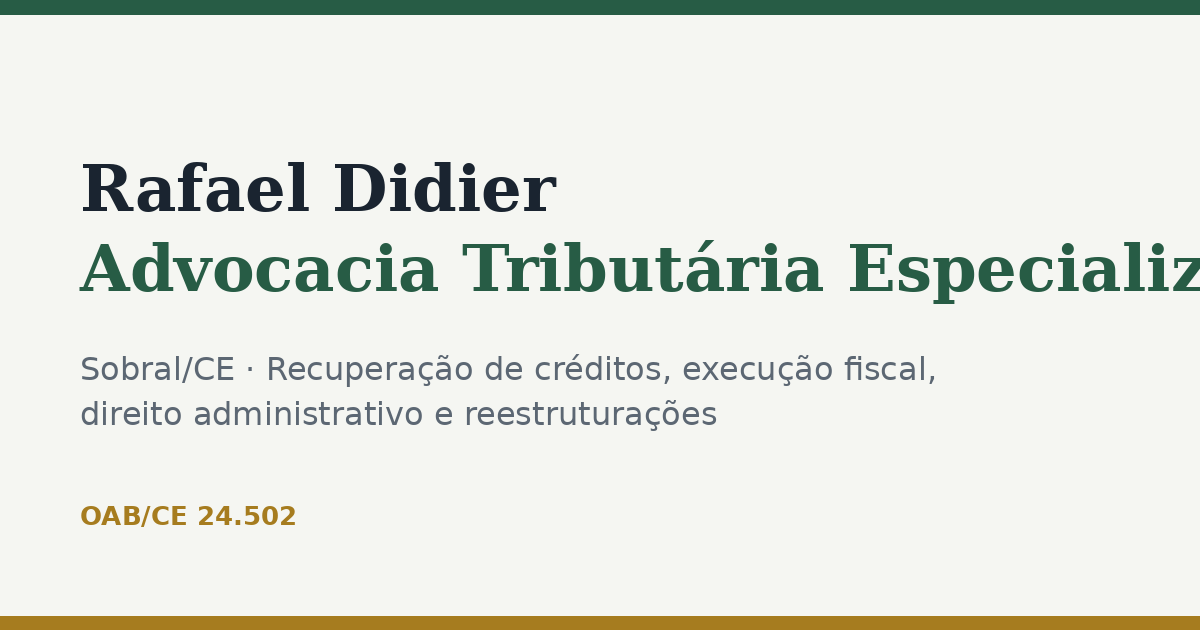
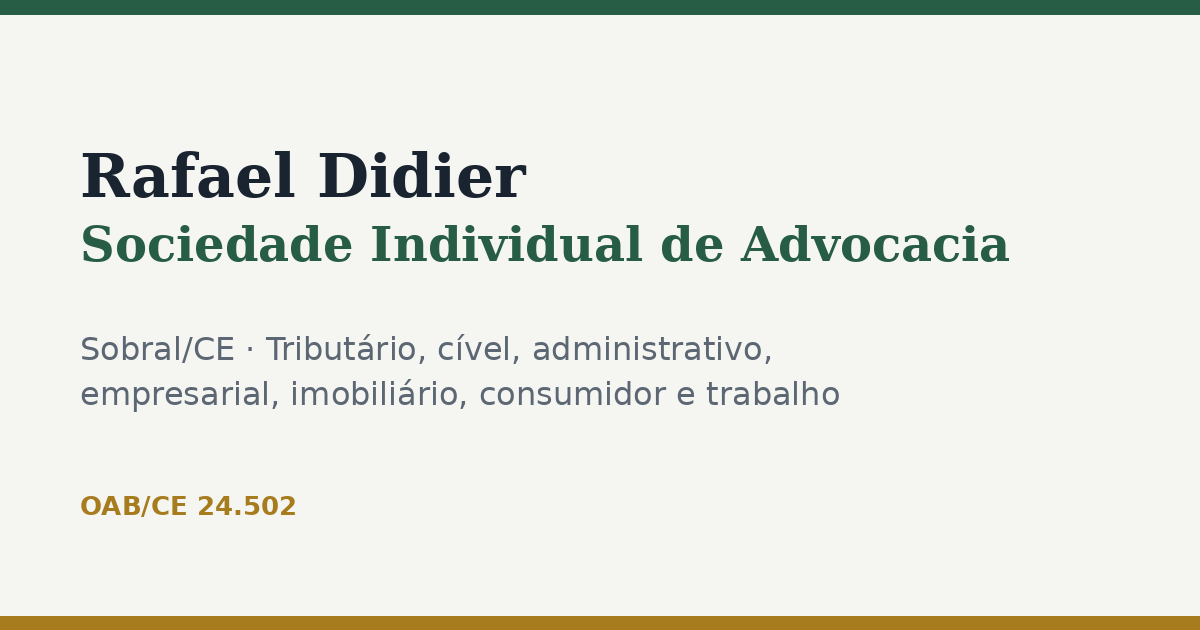
Razão social padronizada, prazos por tribunal, prazo processual publicado para a rotina de publicações
Claude-Session: https://claude.ai/code/session_01EBBbEXdwYvt97TsSuZSn1r

Changed region(s): [[0.0617, 0.2413, 1.0, 0.4825], [0.0617, 0.5127, 0.7708, 0.6937], [0.0617, 0.7841, 0.2467, 0.8444]]

diff --git a/equipe/atendimento.html b/equipe/atendimento.html
@@ -197,7 +197,7 @@ footer{margin-top:24px;font-size:12.5px;color:var(--muted);border-top:1px solid 
 <div class="wrap">
   <header class="top">
     <div>
-      <div class="eyebrow">Rafael Didier Advocacia Tributária · Sobral/CE · versão 2</div>
+      <div class="eyebrow">Rafael Didier Sociedade Individual de Advocacia · Sobral/CE · versão 2</div>
       <h1>Atendimento pelo WhatsApp</h1>
     </div>
     <p class="note">Protótipo navegável. Clientes, documentos e mensagens são fictícios e nada aqui está ligado ao WhatsApp. Os dados ficam só neste navegador.</p>
@@ -412,12 +412,13 @@ footer{margin-top:24px;font-size:12.5px;color:var(--muted);border-top:1px solid 
 
   <section id="v-prazos" hidden>
     <h2 class="sec">Prazos processuais</h2>
-    <p class="sub">Contagem em dias úteis (CPC, art. 219), com a suspensão de 20/12 a 20/1 (art. 220) e os feriados nacionais, do Ceará e de Sobral. Este cálculo não substitui a conferência no calendário do tribunal: informe abaixo os feriados forenses e os dias de indisponibilidade do sistema (art. 224, § 1º).</p>
+    <p class="sub">Contagem em dias úteis (CPC, art. 219), com a suspensão de 20/12 a 20/1 (art. 220) e os feriados nacionais, do Ceará e de Sobral. Este cálculo não substitui a conferência no calendário do tribunal: os dias sem expediente do TJCE e da Justiça Federal já entram; informe abaixo os feriados extras do ano, os municipais da comarca e os dias de indisponibilidade do sistema (art. 224, § 1º).</p>
     <div class="panel" style="display:grid;gap:12px;max-width:760px">
       <div class="grid2">
         <div class="fld"><label for="pp-tipo">A data informada é</label><select id="pp-tipo"><option value="disponibilizacao">Disponibilização no DJe/DJEN</option><option value="intimacao">Intimação ou ciência (portal, oficial, carga)</option></select></div>
         <div class="fld"><label for="pp-data">Data</label><input id="pp-data" type="date"></div>
         <div class="fld"><label for="pp-dias">Prazo (dias)</label><input id="pp-dias" type="number" min="1" max="365" value="15"></div>
+        <div class="fld"><label for="pp-trib">Justiça</label><select id="pp-trib"><option value="tjce">Estadual do Ceará (TJCE)</option><option value="jf">Federal (JFCE/TRF5)</option><option value="">Outra (informe os feriados abaixo)</option></select></div>
         <div class="fld"><label for="pp-proc">Processo (opcional)</label><input id="pp-proc" placeholder="0000000-00.0000.0.00.0000"></div>
       </div>
       <label style="display:flex;gap:8px;align-items:center;font-size:13.5px"><input type="checkbox" id="pp-dobro"> Prazo em dobro (Fazenda Pública, art. 183; Defensoria, art. 186)</label>
@@ -471,20 +472,27 @@ footer{margin-top:24px;font-size:12.5px;color:var(--muted);border-top:1px solid 
   function pascoa(a) { const b = a % 19, c = Math.floor(a / 100), d = a % 100, e = Math.floor(c / 4), f = c % 4, g = Math.floor((c + 8) / 25), h = Math.floor((c - g + 1) / 3),
       i = (19 * b + c - e - h + 15) % 30, k = Math.floor(d / 4), l = d % 4, m = (32 + 2 * f + 2 * k - i - l) % 7, n = Math.floor((b + 11 * i + 22 * m) / 451),
       mes = Math.floor((i + m - 7 * n + 114) / 31), dd = ((i + m - 7 * n + 114) % 31) + 1; return new Date(a, mes - 1, dd, 12); }
-  function feriados(ano, extras) {
-    const f = [[1, 1], [3, 25], [4, 21], [5, 1], [7, 5], [9, 7], [10, 12], [11, 2], [11, 15], [11, 20], [12, 25]].map(([m, d]) => iso(new Date(ano, m - 1, d, 12)));
-    const p = pascoa(ano); [-48, -47, -2, 60].forEach(n => f.push(iso(soma(p, n))));
+  // dias sem expediente próprios de cada justiça (conferir a portaria anual do tribunal)
+  const TRIBUNAIS = {
+    tjce: { nome: 'Justiça Estadual do Ceará (TJCE)', fonte: 'Portaria TJCE nº 2.924/2025 (calendário de 2026)', fixos: [[3, 19], [10, 28], [12, 8]], pascoa: [-3] },
+    jf: { nome: 'Justiça Federal (JFCE/TRF5)', fonte: 'Lei nº 5.010/1966, art. 62', fixos: [[8, 11], [11, 1], [12, 8]], pascoa: [-4, -3] }
+  };
+  function feriados(ano, extras, tribunal) {
+    const t = TRIBUNAIS[tribunal] || { fixos: [], pascoa: [] };
+    const f = [[1, 1], [3, 25], [4, 21], [5, 1], [7, 5], [9, 7], [10, 12], [11, 2], [11, 15], [11, 20], [12, 25], ...t.fixos].map(([m, d]) => iso(new Date(ano, m - 1, d, 12)));
+    const p = pascoa(ano); [-48, -47, -2, 60, ...t.pascoa].forEach(n => f.push(iso(soma(p, n))));
     return new Set(f.concat((extras || []).filter(x => String(x).startsWith(String(ano)))));
   }
   // art. 220: suspensão de 20/12 a 20/1, inclusive
   const recesso = d => (d.getMonth() === 11 && d.getDate() >= 20) || (d.getMonth() === 0 && d.getDate() <= 20);
-  function util(d, extras) { return d.getDay() !== 0 && d.getDay() !== 6 && !feriados(d.getFullYear(), extras).has(iso(d)) && !recesso(d); }
-  const proximoUtil = (d, extras) => { let x = d; while (!util(x, extras)) x = soma(x, 1); return x; };
+  function util(d, extras, tribunal) { return d.getDay() !== 0 && d.getDay() !== 6 && !feriados(d.getFullYear(), extras, tribunal).has(iso(d)) && !recesso(d); }
+  let TRIB = '';
+  const proximoUtil = (d, extras) => { let x = d; while (!util(x, extras, TRIB)) x = soma(x, 1); return x; };
   /* entrada: { disponibilizacao | intimacao (AAAA-MM-DD), dias, dobro (art. 183/186), feriadosExtras: ['AAAA-MM-DD'] }
    * - disponibilizacao no DJe/DJEN: publicação = 1º dia útil seguinte (art. 224, § 2º); início = 1º dia útil após a publicação (§ 3º)
    * - intimacao (data da ciência): início = 1º dia útil seguinte (art. 224, caput: exclui o dia do começo) */
   function calcular(o) {
-    const ex = o.feriadosExtras || [], n = (+o.dias || 0) * (o.dobro ? 2 : 1);
+    const ex = o.feriadosExtras || [], n = (+o.dias || 0) * (o.dobro ? 2 : 1); TRIB = o.tribunal || '';
     if (!(n > 0)) throw new Error('Informe o número de dias do prazo.');
     let publicacao = null, inicio;
     if (o.disponibilizacao) { publicacao = proximoUtil(soma(dia(o.disponibilizacao), 1), ex); inicio = proximoUtil(soma(publicacao, 1), ex); }
@@ -492,9 +500,10 @@ footer{margin-top:24px;font-size:12.5px;color:var(--muted);border-top:1px solid 
     else throw new Error('Informe a data de disponibilização ou de intimação.');
     let d = inicio, c = 1; while (c < n) { d = proximoUtil(soma(d, 1), ex); c++; }
     return { publicacao: publicacao && iso(publicacao), inicio: iso(inicio), vencimento: iso(d), diasUteis: n,
+      tribunal: TRIBUNAIS[TRIB] ? TRIBUNAIS[TRIB].nome + ' (' + TRIBUNAIS[TRIB].fonte + ')' : 'sem calendário de tribunal',
       aviso: 'Confira o calendário do tribunal (feriados forenses e indisponibilidade do sistema, art. 224, § 1º) antes de lançar no Astrea.' };
   }
-  const API = { calcular, util: (s, ex) => util(dia(s), ex), feriados, versao: '1.0' };
+  const API = { TRIBUNAIS, calcular, util: (s, ex, t) => util(dia(s), ex, t), feriados, versao: '1.0' };
   if (typeof module !== 'undefined' && module.exports) module.exports = API; else root.PrazoProcessual = API;
 })(typeof window !== 'undefined' ? window : globalThis);
 
@@ -627,13 +636,15 @@ footer{margin-top:24px;font-size:12.5px;color:var(--muted);border-top:1px solid 
     const resp = f.rota === 'urgencia' ? 'Rafael Didier' : f.rota === 'nova' ? 'Ana Maria Bezerra Silva' : String(r.resp || '').replace(/\s*\(.*\)$/, '');
     const nota = 'Veio do Atendimento RD' + (f.proto ? ', protocolo ' + f.proto : '') + (r.curto ? ' (' + r.curto + ')' : '') + (f.resumo ? ': ' + String(f.resumo).slice(0, 600) : '.');
     return {
-      id: 'at-' + c.id, nome: c.nome || 'Contato do Atendimento', empresa: j.razao && j.razao !== c.nome ? j.razao : '',
+      id: docId(c) || 'at-' + c.id, /* mesmo CPF/CNPJ = mesmo lead, ainda que venha de outra conversa */ nome: c.nome || 'Contato do Atendimento', empresa: j.razao && j.razao !== c.nome ? j.razao : '',
       contato: c.tel || '', area: area(textoTodo), origem: c.canal === 'Site' ? 'Site' : 'WhatsApp', valor: '', resp, etapa: 'novo',
       ultimo: cli ? dataLocal(new Date(cli)) : dataLocal(h), proxAcao: 'Agendar primeira reunião e confirmar consentimento LGPD', proxData: dataLocal(amanha),
       lgpd: { status: 'pendente', data: '', forma: '' }, criado: dataLocal(h),
       hist: [{ data: dataLocal(h), canal: 'Atendimento RD', nota, por: '' }]
     };
   }
+  // chave única do cliente entre os sistemas: CPF/CNPJ só com dígitos (válido pelo tamanho)
+  function docId(c) { const d = String(c.doc || (c.ficha && c.ficha.doc) || '').replace(/\D/g, ''); return d.length === 11 || d.length === 14 ? 'doc-' + d : ''; }
   const cartao = lead => PREFIXO + JSON.stringify(lead);
   // lê um ou mais cartões colados (CRM)
   function lerCartoes(texto) {
@@ -648,7 +659,7 @@ footer{margin-top:24px;font-size:12.5px;color:var(--muted);border-top:1px solid 
     if (!out.length) throw new Error('Nenhum lead encontrado. No Atendimento RD, use “Virar lead no CRM” e cole aqui o que foi copiado.');
     return out;
   }
-  const API = { PREFIXO, area, daConversa, cartao, lerCartoes, versao: '1.0' };
+  const API = { docId, PREFIXO, area, daConversa, cartao, lerCartoes, versao: '1.0' };
   if (typeof module !== 'undefined' && module.exports) module.exports = API; else root.LeadRD = API;
 })(typeof window !== 'undefined' ? window : globalThis);
 
@@ -875,7 +886,7 @@ footer{margin-top:24px;font-size:12.5px;color:var(--muted);border-top:1px solid 
   function lerJSON(entrada) {
     if (entrada && typeof entrada === 'object') return entrada;
     const s = String(entrada || ''), i = s.indexOf('{'), j = s.lastIndexOf('}');
-    if (i < 0 || j <= i) throw new Error('Cole o resultado da consulta (o texto começa com "{").');
+    if (i < 0 || j <= i) throw new Error('Texto não reconhecido: cole o resultado da consulta (o texto começa com "{").');
     try { return JSON.parse(s.slice(i, j + 1)); } catch (_) { throw new Error('Não foi possível ler o resultado da consulta: copie a página inteira (Ctrl+A, Ctrl+C) e cole de novo.'); }
   }
   const nn = v => (v === '' || v === undefined) ? null : v;
@@ -1124,7 +1135,7 @@ function hm(dt){return String(dt.getHours()).padStart(2,"0")+":"+String(dt.getMi
 function esc(t){return String(t??"").replace(/[&<>"]/g,c=>({"&":"&amp;","<":"&lt;",">":"&gt;",'"':"&quot;"}[c]))}
 function minus(min){return new Date(AGORA.getTime()-min*60000).toISOString()}
 
-const BOAS="Olá! Sou o assistente virtual do escritório Rafael Didier Advocacia Tributária. Vou registrar seu pedido e encaminhar para a pessoa certa da equipe.\n\nSeus dados serão usados apenas para este atendimento, conforme nossa política de privacidade. A qualquer momento, digite 0 para falar com uma pessoa.\n\nVocê já é cliente do escritório?\n1. Sim\n2. Ainda não";
+const BOAS="Olá! Sou o assistente virtual do escritório Rafael Didier Sociedade Individual de Advocacia. Vou registrar seu pedido e encaminhar para a pessoa certa da equipe.\n\nSeus dados serão usados apenas para este atendimento, conforme nossa política de privacidade. A qualquer momento, digite 0 para falar com uma pessoa.\n\nVocê já é cliente do escritório?\n1. Sim\n2. Ainda não";
 const MENU_TXT="Qual é o assunto?\n1. Processo em andamento ou intimação\n2. Urgência: citação, penhora, bloqueio ou prazo correndo\n3. Nova demanda ou consulta\n4. Enviar documentos\n5. Financeiro, boleto ou honorários\n6. Agendar reunião";
 
 // completude
@@ -1514,7 +1525,7 @@ document.getElementById("gerar").addEventListener("click",()=>{
       '<p>'+local+'.</p><div class="assin"><span></span>'+assinante()+'</div>';
   } else {
     html='<h4>TERMO DE CIÊNCIA SOBRE TRATAMENTO DE DADOS PESSOAIS</h4>'+
-      '<p>'+qualificacao()+', declara estar ciente de que o escritório Rafael Didier Advocacia Tributária tratará os dados pessoais e os documentos fornecidos exclusivamente para a prestação dos serviços jurídicos contratados, o cumprimento de obrigações legais e o exercício regular de direitos em processos judiciais e administrativos, nos termos da Lei nº 13.709/2018.</p>'+
+      '<p>'+qualificacao()+', declara estar ciente de que o escritório Rafael Didier Sociedade Individual de Advocacia tratará os dados pessoais e os documentos fornecidos exclusivamente para a prestação dos serviços jurídicos contratados, o cumprimento de obrigações legais e o exercício regular de direitos em processos judiciais e administrativos, nos termos da Lei nº 13.709/2018.</p>'+
       '<p>Os documentos serão guardados em pasta de acesso restrito à equipe responsável pelo atendimento, pelo prazo necessário à prestação dos serviços e ao cumprimento de obrigações legais. O titular pode solicitar informações, correção ou eliminação de dados pelo canal oficial de atendimento do escritório.</p>'+
       '<p>'+local+'.</p><div class="assin"><span></span>'+assinante()+'</div>';
   }
@@ -1594,7 +1605,7 @@ document.getElementById("mdl-tx-salva").addEventListener("click",async()=>{ cons
 
 // na conversa
 const mdMsg=t=>{document.getElementById("md-msg").textContent=t};
-const ESCRITORIO={ADVOGADO:"Carlos Rafael Aguiar Didier",OAB:"OAB/CE 24.502",ESCRITORIO:"Rafael Didier Advocacia Tributária Especializada",CIDADE_ESCRITORIO:"Sobral/CE",ENDERECO_DO_ESCRITORIO:"Rua Padre Fialho, 117, Centro, Sobral/CE"};
+const ESCRITORIO={ADVOGADO:"Carlos Rafael Aguiar Didier",OAB:"OAB/CE 24.502",ESCRITORIO:"Rafael Didier Sociedade Individual de Advocacia",CIDADE_ESCRITORIO:"Sobral/CE",ENDERECO_DO_ESCRITORIO:"Rua Padre Fialho, 117, Centro, Sobral/CE"};
 function mdValores(c){ return Modelos.dadosDaConversa(c,{assunto:c.ficha&&ROTAS[c.ficha.rota]?ROTAS[c.ficha.rota].nome:"",escritorio:ESCRITORIO}) }
 function mdCampos(m){ const base=m.tipo==="texto"?m.texto:m.textoPlano; return base?Modelos.campos(Modelos.aplicarBlocosTexto(base,mdBlocos())):m.campos }
 let mdDigitado={};
@@ -1742,10 +1753,10 @@ document.getElementById("msgs").addEventListener("click",e=>{ const b=e.target.c
   $("pp-calc").addEventListener("click",()=>{ const el=$("pp-res"), proc=$("pp-proc").value.trim();
     try{ const extras=$("pp-extras").value.split(/\s+/).filter(x=>/^\d{4}-\d{2}-\d{2}$/.test(x)); try{ localStorage.setItem("rd-feriados-forenses",extras.join("\n")) }catch(e){}
       if(proc&&!Leitura.cnjValido(proc)) throw new Error("O número do processo não confere (dígito verificador). Use o número CNJ completo.");
-      const o={dias:+$("pp-dias").value,dobro:$("pp-dobro").checked,feriadosExtras:extras}; o[$("pp-tipo").value]=$("pp-data").value;
+      const o={dias:+$("pp-dias").value,dobro:$("pp-dobro").checked,feriadosExtras:extras,tribunal:$("pp-trib").value}; o[$("pp-tipo").value]=$("pp-data").value;
       const r=PrazoProcessual.calcular(o);
       const tx=(proc?"Processo "+Modelos.fmtCNJ(proc)+"\n":"")+(r.publicacao?"Publicação: "+br(r.publicacao)+"\n":"")+"Início da contagem: "+br(r.inicio)+"\nPrazo: "+r.diasUteis+" dias úteis"+(o.dobro?" (em dobro)":"")+"\nVencimento: "+br(r.vencimento);
-      el.innerHTML='<div style="font-size:15px;color:var(--fg)"><b>Vence em '+br(r.vencimento)+'</b></div><pre style="white-space:pre-wrap;margin:6px 0">'+esc(tx)+'</pre><div>'+esc(r.aviso)+'</div><button class="btn ghost small" type="button" id="pp-copia" style="margin-top:6px">Copiar para o Astrea</button>';
+      el.innerHTML='<div style="font-size:15px;color:var(--fg)"><b>Vence em '+br(r.vencimento)+'</b></div><pre style="white-space:pre-wrap;margin:6px 0">'+esc(tx)+'</pre><div>Calendário: '+esc(r.tribunal)+'. '+esc(r.aviso)+'</div><button class="btn ghost small" type="button" id="pp-copia" style="margin-top:6px">Copiar para o Astrea</button>';
       $("pp-copia").onclick=()=>{ try{ navigator.clipboard.writeText(tx).then(()=>toastPP("Copiado."),()=>toastPP("Selecione o texto e copie.")) }catch(e){ toastPP("Selecione o texto e copie.") } };
     }catch(err){ el.textContent=err.message } });
   function toastPP(t){ const b=$("pp-copia"); if(b) b.textContent=t }

diff --git a/index.html b/index.html
@@ -8,15 +8,15 @@
 <meta name="theme-color" content="#275c45">
 <meta name="referrer" content="strict-origin-when-cross-origin">
 <link rel="preconnect" href="https://fonts.googleapis.com"><link rel="preconnect" href="https://fonts.gstatic.com" crossorigin>
-<title>Rafael Didier Advocacia Tributária</title>
+<title>Rafael Didier Sociedade Individual de Advocacia</title>
 <meta name="description" content="Sociedade de advocacia em Sobral/CE: contencioso cível, recuperação de créditos tributários municipais e estaduais, direito administrativo, reestruturações societárias e transações imobiliárias.">
 <meta property="og:type" content="website">
 <meta property="og:locale" content="pt_BR">
-<meta property="og:title" content="Rafael Didier Advocacia Tributária · Sobral/CE">
+<meta property="og:title" content="Rafael Didier Sociedade Individual de Advocacia · Sobral/CE">
 <meta property="og:description" content="Contencioso cível, créditos tributários municipais e estaduais, direito administrativo, reestruturações societárias e transações imobiliárias. Sobral/CE.">
 <meta property="og:url" content="https://didierrafaeladv-ux.github.io/rafaeldidieradv-site/">
 <link rel="canonical" href="https://didierrafaeladv-ux.github.io/rafaeldidieradv-site/">
-<script type="application/ld+json">{"@context":"https://schema.org","@type":"LegalService","name":"Rafael Didier Advocacia Tributária Especializada","url":"https://rafaeldidieradv.com/","telephone":["+55-88-99693-6282","+55-85-98177-2100"],"email":"contato@rafaeldidieradv.com","address":{"@type":"PostalAddress","streetAddress":"Rua Padre Fialho, 117, Centro","addressLocality":"Sobral","addressRegion":"CE","addressCountry":"BR"},"areaServed":"Ceará","knowsAbout":["Contencioso cível","Recuperação de créditos tributários","ISS","ICMS","Execução fiscal","Direito administrativo","Contratos administrativos","Reestruturação societária","Holding familiar","Transações imobiliárias","Direito do consumidor","Direito previdenciário","Direito do trabalho"],"employee":{"@type":"Person","name":"Carlos Rafael Aguiar Didier","jobTitle":"Advogado, OAB/CE 24.502"},"sameAs":["https://www.instagram.com/rafaeldidieradv/"]}</script>
+<script type="application/ld+json">{"@context":"https://schema.org","@type":"LegalService","name":"Rafael Didier Sociedade Individual de Advocacia","url":"https://rafaeldidieradv.com/","telephone":["+55-88-99693-6282","+55-85-98177-2100"],"email":"contato@rafaeldidieradv.com","address":{"@type":"PostalAddress","streetAddress":"Rua Padre Fialho, 117, Centro","addressLocality":"Sobral","addressRegion":"CE","addressCountry":"BR"},"areaServed":"Ceará","knowsAbout":["Contencioso cível","Recuperação de créditos tributários","ISS","ICMS","Execução fiscal","Direito administrativo","Contratos administrativos","Reestruturação societária","Holding familiar","Transações imobiliárias","Direito do consumidor","Direito previdenciário","Direito do trabalho"],"employee":{"@type":"Person","name":"Carlos Rafael Aguiar Didier","jobTitle":"Advogado, OAB/CE 24.502"},"sameAs":["https://www.instagram.com/rafaeldidieradv/"]}</script>
 <link rel="stylesheet" href="https://fonts.googleapis.com/css2?family=Newsreader:ital,opsz,wght@0,6..72,400;0,6..72,600;1,6..72,400&family=Public+Sans:wght@400;500;600;700&display=swap">
 <style>
 /* Layout: uma página longa com seções ancoradas, faixa de conteúdo em 1100px, hero assimétrico texto+foto, rodapé institucional. */
@@ -142,7 +142,7 @@ footer .wrap{display:grid;gap:.5rem}
 
 <header>
   <nav class="wrap nav" aria-label="Principal">
-    <a class="brand" href="#inicio">Rafael Didier<small>Advocacia Tributária Especializada</small></a>
+    <a class="brand" href="#inicio">Rafael Didier<small>Sociedade Individual de Advocacia</small></a>
     <button id="menuBtn" aria-expanded="false" aria-controls="links">Menu</button>
     <ul class="links" id="links">
       <li><a href="#situacao">Sua situação</a></li>
@@ -427,7 +427,7 @@ footer .wrap{display:grid;gap:.5rem}
 
 <footer>
   <div class="wrap">
-    <strong style="color:var(--fg)">Rafael Didier Advocacia Tributária Especializada</strong>
+    <strong style="color:var(--fg)">Rafael Didier Sociedade Individual de Advocacia</strong>
     <span>Carlos Rafael Aguiar Didier · OAB/CE 24.502 · Sociedade individual de advocacia · Sobral/CE</span>
     <span>Rua Padre Fialho, 117, Centro, Sobral/CE · WhatsApp <a href="https://wa.me/5585981772100">(85) 98177-2100</a> · Telefone <a href="tel:+5588996936282">(88) 99693-6282</a> · Atendimento de segunda a sexta, das 8h às 17h</span>
     <span>Conteúdo informativo, elaborado conforme o Provimento 205/2021 da OAB. Não constitui consulta jurídica nem promessa de resultado.</span>

diff --git a/equipe/js/prazo_processual.js b/equipe/js/prazo_processual.js
@@ -1,0 +1,47 @@
+/* Prazos processuais em dias úteis (CPC, arts. 219, 220 e 224) (v1.0, 30/10/2026).
+ * Separado do prazo de atendimento (horas úteis, 8h–17h), que não deve ser usado para prazo processual.
+ * Feriados: nacionais, Carnaval (seg/ter), Sexta-feira Santa, Corpus Christi, Data Magna do CE (25/3), Sobral (5/7)
+ * + feriadosExtras do calendário do tribunal [CONFIRMAR o calendário anual do TJCE/TRF5]. */
+(function (root) {
+  'use strict';
+  const pad = n => String(n).padStart(2, '0');
+  const iso = d => d.getFullYear() + '-' + pad(d.getMonth() + 1) + '-' + pad(d.getDate());
+  const dia = s => { const [a, m, d] = String(s).slice(0, 10).split('-').map(Number); return new Date(a, m - 1, d, 12); };
+  const soma = (d, n) => new Date(d.getFullYear(), d.getMonth(), d.getDate() + n, 12);
+  function pascoa(a) { const b = a % 19, c = Math.floor(a / 100), d = a % 100, e = Math.floor(c / 4), f = c % 4, g = Math.floor((c + 8) / 25), h = Math.floor((c - g + 1) / 3),
+      i = (19 * b + c - e - h + 15) % 30, k = Math.floor(d / 4), l = d % 4, m = (32 + 2 * f + 2 * k - i - l) % 7, n = Math.floor((b + 11 * i + 22 * m) / 451),
+      mes = Math.floor((i + m - 7 * n + 114) / 31), dd = ((i + m - 7 * n + 114) % 31) + 1; return new Date(a, mes - 1, dd, 12); }
+  // dias sem expediente próprios de cada justiça (conferir a portaria anual do tribunal)
+  const TRIBUNAIS = {
+    tjce: { nome: 'Justiça Estadual do Ceará (TJCE)', fonte: 'Portaria TJCE nº 2.924/2025 (calendário de 2026)', fixos: [[3, 19], [10, 28], [12, 8]], pascoa: [-3] },
+    jf: { nome: 'Justiça Federal (JFCE/TRF5)', fonte: 'Lei nº 5.010/1966, art. 62', fixos: [[8, 11], [11, 1], [12, 8]], pascoa: [-4, -3] }
+  };
+  function feriados(ano, extras, tribunal) {
+    const t = TRIBUNAIS[tribunal] || { fixos: [], pascoa: [] };
+    const f = [[1, 1], [3, 25], [4, 21], [5, 1], [7, 5], [9, 7], [10, 12], [11, 2], [11, 15], [11, 20], [12, 25], ...t.fixos].map(([m, d]) => iso(new Date(ano, m - 1, d, 12)));
+    const p = pascoa(ano); [-48, -47, -2, 60, ...t.pascoa].forEach(n => f.push(iso(soma(p, n))));
+    return new Set(f.concat((extras || []).filter(x => String(x).startsWith(String(ano)))));
+  }
+  // art. 220: suspensão de 20/12 a 20/1, inclusive
+  const recesso = d => (d.getMonth() === 11 && d.getDate() >= 20) || (d.getMonth() === 0 && d.getDate() <= 20);
+  function util(d, extras, tribunal) { return d.getDay() !== 0 && d.getDay() !== 6 && !feriados(d.getFullYear(), extras, tribunal).has(iso(d)) && !recesso(d); }
+  let TRIB = '';
+  const proximoUtil = (d, extras) => { let x = d; while (!util(x, extras, TRIB)) x = soma(x, 1); return x; };
+  /* entrada: { disponibilizacao | intimacao (AAAA-MM-DD), dias, dobro (art. 183/186), feriadosExtras: ['AAAA-MM-DD'] }
+   * - disponibilizacao no DJe/DJEN: publicação = 1º dia útil seguinte (art. 224, § 2º); início = 1º dia útil após a publicação (§ 3º)
+   * - intimacao (data da ciência): início = 1º dia útil seguinte (art. 224, caput: exclui o dia do começo) */
+  function calcular(o) {
+    const ex = o.feriadosExtras || [], n = (+o.dias || 0) * (o.dobro ? 2 : 1); TRIB = o.tribunal || '';
+    if (!(n > 0)) throw new Error('Informe o número de dias do prazo.');
+    let publicacao = null, inicio;
+    if (o.disponibilizacao) { publicacao = proximoUtil(soma(dia(o.disponibilizacao), 1), ex); inicio = proximoUtil(soma(publicacao, 1), ex); }
+    else if (o.intimacao) inicio = proximoUtil(soma(dia(o.intimacao), 1), ex);
+    else throw new Error('Informe a data de disponibilização ou de intimação.');
+    let d = inicio, c = 1; while (c < n) { d = proximoUtil(soma(d, 1), ex); c++; }
+    return { publicacao: publicacao && iso(publicacao), inicio: iso(inicio), vencimento: iso(d), diasUteis: n,
+      tribunal: TRIBUNAIS[TRIB] ? TRIBUNAIS[TRIB].nome + ' (' + TRIBUNAIS[TRIB].fonte + ')' : 'sem calendário de tribunal',
+      aviso: 'Confira o calendário do tribunal (feriados forenses e indisponibilidade do sistema, art. 224, § 1º) antes de lançar no Astrea.' };
+  }
+  const API = { TRIBUNAIS, calcular, util: (s, ex, t) => util(dia(s), ex, t), feriados, versao: '1.0' };
+  if (typeof module !== 'undefined' && module.exports) module.exports = API; else root.PrazoProcessual = API;
+})(typeof window !== 'undefined' ? window : globalThis);
